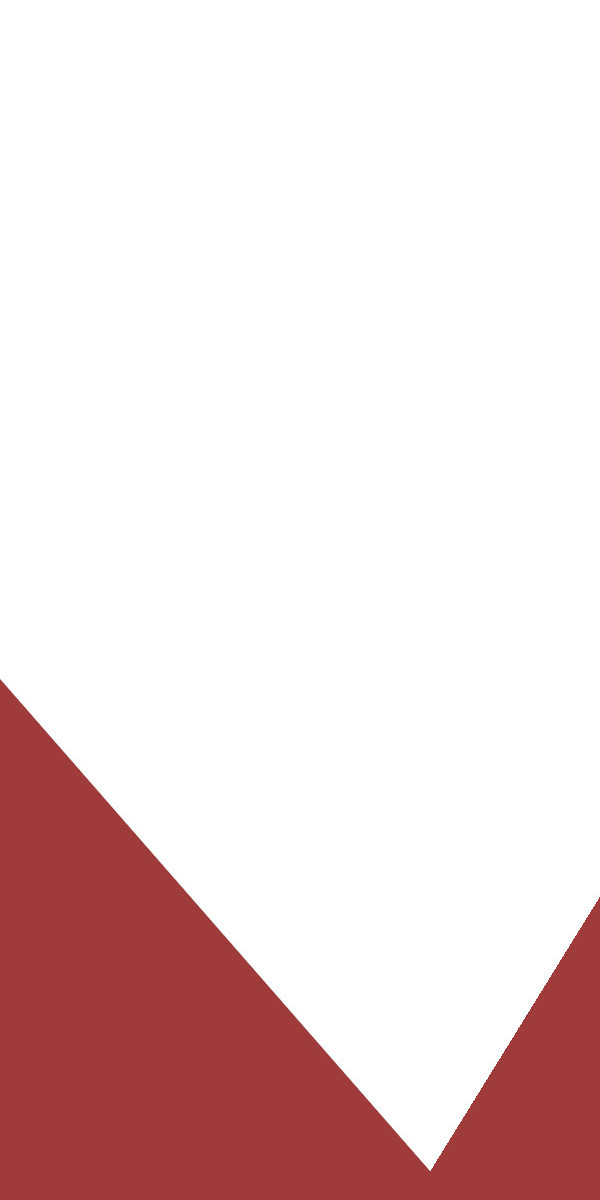
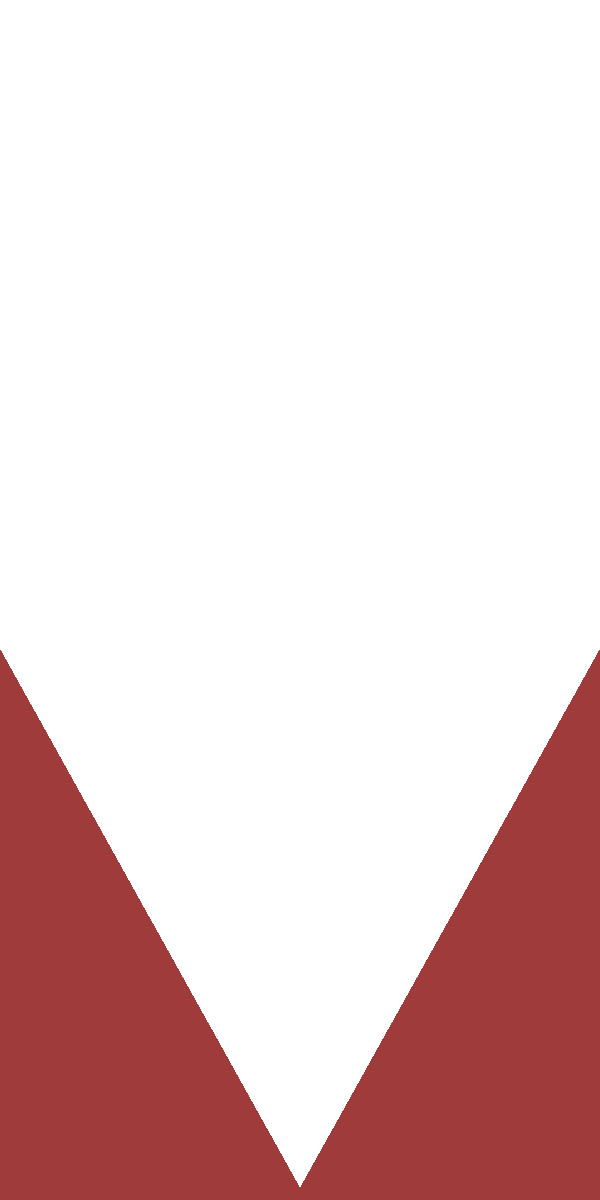
only login

Changed region(s): [[0.09, 0.5242, 1.0, 0.9867], [0.0, 0.5242, 0.06, 0.6167]]

diff --git a/app/activities/login/login.js b/app/activities/login/login.js
@@ -1,33 +1,18 @@
-const observableModule = require("tns-core-modules/data/observable");
-const dialogsModule = require("tns-core-modules/ui/dialogs");
-const topmost = require("tns-core-modules/ui/frame").topmost;
+const observableModule = require('tns-core-modules/data/observable');
+const dialogsModule = require('tns-core-modules/ui/dialogs');
+const topmost = require('tns-core-modules/ui/frame').topmost;
 
-const auth = require("~/modules/auth/auth");
+const auth = require('~/modules/auth/auth');
 
 var pageData = new observableModule.fromObject({
     username: '216000',
     password: 'password',
     confirmPassword: 'password',
-    isLoggingIn: true,
     loading: false,
 
-    toggleForm() {
-        this.isLoggingIn = !this.isLoggingIn;
-    },
-
     submit() {
-        if (this.username.trim() === '' ||
-            this.password.trim() === '') {
-            alert('Podaj login oraz hasło!');
-            return;
-        }
-
-        this.set("loading", true);
-
-        if (this.isLoggingIn)
-            this.login();
-        else
-            this.register();
+        this.set('loading', true);
+        this.login();
     },
 
     login() {
@@ -36,55 +21,33 @@ var pageData = new observableModule.fromObject({
             password: this.password
         }).then((msg) => {
             alert('logged');
-            this.set("loading", false);
+            this.set('loading', false);
 
             // topmost().navigate({
-            //     moduleName: "/home/home-page",
+            //     moduleName: '/home/home-page',
             //     clearHistory: true
             // });
         }).catch((msg) => {
             alert(msg);
-            this.set("loading", false);
+            this.set('loading', false);
         });
     },
-    
-    register() {
-        if (this.password !== this.confirmPassword) {
-            alert('Hasło się nie zgadzają!');
-            return;
-        }
 
-        auth.login({
-            username: this.username,
-            password: this.password
-        }).then((msg) => {
-            alert('logged');
-            this.set("loading", false);
-
-            // topmost().navigate({
-            //     moduleName: "/home/home-page",
-            //     clearHistory: true
-            // });
-        }).catch((msg) => {
-            alert(msg);
-            this.set("loading", false);
-        });
-    },
     forgotPassword() {
         dialogsModule.prompt({
-            title: "Forgot Password",
-            message: "Enter the email address you used to register for APP NAME to reset your password.",
-            inputType: "email",
-            defaultText: "",
-            okButtonText: "Ok",
-            cancelButtonText: "Cancel"
+            title: 'Przypominanie hasła',
+            message: 'Podaj email',
+            inputType: 'email',
+            defaultText: '',
+            okButtonText: 'Ok',
+            cancelButtonText: 'Cancel'
         }).then((data) => {
             if (data.result) {
                 // userService.resetPassword(data.text.trim())
                 //     .then(() => {
-                //         alert("Your password was successfully reset. Please check your email for instructions on choosing a new password.");
+                //         alert('Your password was successfully reset. Please check your email for instructions on choosing a new password.');
                 //     }).catch(() => {
-                //         alert("Unfortunately, an error occurred resetting your password.");
+                //         alert('Unfortunately, an error occurred resetting your password.');
                 //     });
             }
         });

diff --git a/app/modules/auth/auth.js b/app/modules/auth/auth.js
@@ -1,6 +1,12 @@
 
 exports.login = (user) => {
     return new Promise((revoke, reject) => {
+        if (user.username.trim() === '' ||
+            user.password.trim() === '') {
+            reject('Podaj login oraz hasło!');
+            return;
+        }
+
         if (user.username === '216000') {
             revoke('ok');
         } else {
@@ -9,7 +15,7 @@ exports.login = (user) => {
     });
 }
 
-exports.register = (newUser) => {
+exports.forgotPassword = (newUser) => {
     return new Promise((revoke, reject) => {
         if (newUser.username.length === 6) {
             revoke('ok');

diff --git a/app/app.css b/app/app.css
@@ -16,6 +16,7 @@ The imported CSS rules must precede all other types of rules.
 The following CSS rule changes the font size of all UI
 components that have the btn class name.
 */
+
 .btn {
     font-size: 18;
 }

diff --git a/app/activities/login/login.css b/app/activities/login/login.css
@@ -69,3 +69,10 @@ Button {
 .bold {
   color: #000000; 
 }
+
+Label {
+  text-align:center;
+  font-size: 16px;
+  font-weight: 700;
+  color: #000;
+}
